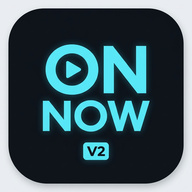
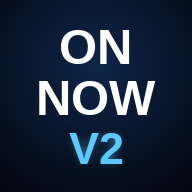
auto-commit for ecdddb0d-7a6c-4865-b3bb-73949e7a1cd9

diff --git a/launcher-backend/remote_page.html b/launcher-backend/remote_page.html
@@ -49,9 +49,12 @@
   .nbtn span{pointer-events:none}
 
   /* ── top bar ── */
-  .topbar{display:flex;align-items:center;justify-content:space-between;position:relative}
-  .brand-logo{position:absolute;left:50%;top:50%;transform:translate(-50%,-50%);
-    width:36px;height:36px;border-radius:9px;box-shadow:0 4px 12px rgba(0,0,0,.45);pointer-events:none}
+  .topbar{display:flex;align-items:center;justify-content:space-between}
+  .brand-word{flex:1;display:flex;justify-content:center;align-items:baseline;gap:5px;
+    padding:0 8px;white-space:nowrap;pointer-events:none;
+    font-weight:800;font-size:15px;letter-spacing:-0.02em;color:#fff;
+    text-shadow:0 4px 22px rgba(93,200,255,.28)}
+  .brand-word b{font-weight:800;color:#5DC8FF;text-shadow:0 0 14px rgba(93,200,255,.55),0 0 34px rgba(93,200,255,.25)}
   .conn-pill{display:flex;align-items:center;gap:8px;padding:8px 14px;border-radius:999px;
     background:linear-gradient(145deg,var(--card-hi),var(--card-lo));border:1px solid var(--edge);
     box-shadow:var(--shadow-out);font-size:12.5px;font-weight:600;letter-spacing:.02em;color:var(--txt-dim)}
@@ -148,9 +151,12 @@
   .pair{position:fixed;inset:0;z-index:80;display:flex;flex-direction:column;align-items:center;justify-content:center;
     gap:22px;padding:32px;background:radial-gradient(120% 90% at 50% 0%, #121a26 0%, var(--bg) 55%, #070a10 100%)}
   .pair.hidden{display:none}
-  .pair-logo{display:flex;flex-direction:column;align-items:center;gap:14px;
-    font-size:12px;font-weight:800;letter-spacing:.34em;color:var(--accent)}
-  .pair-logo img{width:72px;height:72px;border-radius:18px;box-shadow:0 10px 30px rgba(0,0,0,.5)}
+  .pair-word{display:flex;align-items:baseline;gap:12px;
+    font-weight:800;font-size:clamp(40px,12vw,56px);letter-spacing:-0.04em;line-height:1;color:#fff;
+    text-shadow:0 8px 60px rgba(93,200,255,.28)}
+  .pair-word b{font-weight:800;color:#5DC8FF;text-shadow:0 0 24px rgba(93,200,255,.55),0 0 60px rgba(93,200,255,.25)}
+  .pair-eyebrow{font-size:11px;letter-spacing:.36em;text-transform:uppercase;color:rgba(255,255,255,.55);
+    font-weight:600;margin-top:-6px}
   .pair h1{font-size:24px;font-weight:800;text-align:center;line-height:1.25}
   .pair p{font-size:13.5px;color:var(--txt-dim);text-align:center;max-width:280px;line-height:1.5}
   .code-boxes{display:flex;gap:9px}
@@ -168,6 +174,16 @@
   @keyframes spin{to{transform:rotate(360deg)}}
 
   /* toast */
+  .a2hs{position:fixed;left:14px;right:14px;bottom:calc(env(safe-area-inset-bottom,0px) + 14px);z-index:70;
+    display:flex;align-items:center;gap:11px;padding:12px 14px;border-radius:16px;
+    background:#141b27;border:1px solid var(--edge);box-shadow:0 12px 34px rgba(0,0,0,.55);
+    transform:translateY(160%);transition:transform .3s ease}
+  .a2hs.show{transform:translateY(0)}
+  .a2hs img{height:26px;width:26px;border-radius:6px;flex-shrink:0}
+  .a2hs p{flex:1;font-size:12px;color:var(--txt-dim);line-height:1.45}
+  .a2hs-install{border:none;border-radius:999px;padding:9px 16px;font-size:12.5px;font-weight:700;
+    color:var(--bg);background:linear-gradient(145deg,#4ad4f2,#26aac9);cursor:pointer;flex-shrink:0}
+  .a2hs-x{background:none;border:none;color:var(--txt-faint);font-size:17px;line-height:1;cursor:pointer;padding:6px;flex-shrink:0}
   .toast{position:fixed;bottom:calc(env(safe-area-inset-bottom,0px) + 84px);left:50%;transform:translate(-50%,16px);z-index:90;
     background:#1a2331;border:1px solid var(--edge);color:var(--txt);font-size:13px;font-weight:600;
     padding:11px 18px;border-radius:999px;box-shadow:0 10px 30px rgba(0,0,0,.5);opacity:0;pointer-events:none;
@@ -179,7 +195,8 @@
 
 <!-- ── PAIRING ── -->
 <div class="pair" id="pairScreen" data-testid="pair-screen">
-  <div class="pair-logo"><img src="remote-icon-192.png" alt="ON NOW V2"><span>ON NOW TV · V2</span></div>
+  <div class="pair-word" data-testid="pair-logo">ON&nbsp;NOW <b>V2</b></div>
+  <div class="pair-eyebrow">Phone&nbsp;Remote</div>
   <h1 id="pairTitle">Enter the code<br>on your TV</h1>
   <p id="pairSub">Open the Remote on your TV box and type the 6-digit code shown on screen.</p>
   <div class="code-boxes" id="codeBoxes" data-testid="code-boxes"></div>
@@ -198,7 +215,7 @@
       <span id="connText">Connecting…</span>
       <span class="conn-mode" id="connMode"></span>
     </div>
-    <img class="brand-logo" src="remote-icon-192.png" alt="ON NOW V2" data-testid="brand-logo">
+    <div class="brand-word" data-testid="brand-logo">ON&nbsp;NOW <b>V2</b></div>
     <button class="nbtn pwr-btn" data-key="POWER" data-testid="power-button" aria-label="Power">
       <svg viewBox="0 0 24 24"><path d="M18.36 6.64a9 9 0 1 1-12.73 0"/><line x1="12" y1="2" x2="12" y2="12"/></svg>
     </button>
@@ -316,6 +333,13 @@
   <div class="kb-hint">Text is typed live on the TV. ⏎ sends Enter. Backspace deletes on the TV too.</div>
 </div>
 
+<div class="a2hs" id="a2hsBar" data-testid="a2hs-banner">
+  <img src="remote-icon-192.png" alt="">
+  <p id="a2hsText"></p>
+  <button class="a2hs-install" id="a2hsAction" style="display:none" data-testid="a2hs-install-button"></button>
+  <button class="a2hs-x" id="a2hsClose" aria-label="Dismiss" data-testid="a2hs-close-button">✕</button>
+</div>
+
 <div class="toast" id="toast" data-testid="toast"></div>
 
 <script>
@@ -364,6 +388,45 @@
       } catch(e){}
     }
     document.addEventListener("pointerdown", goFs, true);
+  })();
+
+  // "Add to Home Screen" nudge (once).  Android Chrome fires
+  // beforeinstallprompt → real Install button.  iPhone has no install
+  // API at all — the ONLY route to a full-screen remote on iOS is
+  // Share → Add to Home Screen, so we spell that out.
+  (function installHint(){
+    var standalone = false;
+    try {
+      standalone = (window.matchMedia &&
+        (matchMedia("(display-mode: standalone)").matches ||
+         matchMedia("(display-mode: fullscreen)").matches)) ||
+        window.navigator.standalone === true;
+    } catch(e){}
+    if (standalone) return;
+    try { if (localStorage.getItem("onnow_a2hs_hint")) return; } catch(e){}
+    var isIos = /iPhone|iPad|iPod/.test(navigator.userAgent);
+    var deferred = null;
+    var bar = $("a2hsBar"), txt = $("a2hsText"), act = $("a2hsAction");
+    function dismiss(){
+      bar.classList.remove("show");
+      try { localStorage.setItem("onnow_a2hs_hint", "1"); } catch(e){}
+    }
+    $("a2hsClose").addEventListener("click", dismiss);
+    act.addEventListener("click", function(){
+      if (deferred){ try { deferred.prompt(); } catch(e){} deferred = null; }
+      dismiss();
+    });
+    function show(message, actionLabel){
+      txt.textContent = message;
+      act.style.display = actionLabel ? "" : "none";
+      if (actionLabel) act.textContent = actionLabel;
+      setTimeout(function(){ bar.classList.add("show"); }, 2600);
+    }
+    window.addEventListener("beforeinstallprompt", function(e){
+      e.preventDefault(); deferred = e;
+      show("Add this remote to your home screen — it opens full screen like an app.", "Install");
+    });
+    if (isIos) show("For full screen on iPhone: tap Share, then \u201cAdd to Home Screen\u201d.", null);
   })();
 
   function saved(){ try { return JSON.parse(localStorage.getItem(LS_KEY) || "null"); } catch(e){ return null; } }

diff --git a/memory/PRD.md b/memory/PRD.md
@@ -8912,3 +8912,25 @@ build; QR + keyboard detection require the new launcher build.
   TV · V2" on the pair/connecting screens.
 - LocalRemoteServer: redirects /remote-icon-*.png + /remote.webmanifest
   to the cloud copies for LAN-mode phones (launcher recompiled OK).
+
+---
+
+## 2026-06 — Branding corrected to boot-splash wordmark + iOS answer
+- User clarified the logo = Vesper BootSplash typographic wordmark
+  (bold white "ON NOW" + glowing cyan #5DC8FF "V2"), NOT the generated
+  square icon. Remote now renders it as pure text: .brand-word in the
+  top bar (flex 3-col layout, no overlap) and big .pair-word +
+  "PHONE REMOTE" eyebrow on the pair/connecting screens.
+- Home-screen icons regenerated with PIL in the same typographic style
+  (radial navy bg, stacked ON/NOW white + glowing V2 cyan,
+  LiberationSans-Bold). remote_logo.png route/file removed.
+- iPhone: no install-prompt API on iOS. Solution shipped: A2HS hint
+  banner (one-time, dismissible) — iOS Safari shows "tap Share → Add
+  to Home Screen"; Android Chrome hooks beforeinstallprompt with a
+  real Install button. apple-mobile-web-app-capable meta means iOS
+  home-screen launches are standalone full-screen. In-tab
+  requestFullscreen doesn't exist on iPhone Safari — home-screen
+  route is the only true fullscreen there.
+- Bug fixed during this: a2hs banner HTML div had gone missing →
+  null addEventListener killed the whole page script (no code boxes,
+  no auto-connect). Restored + verified end-to-end.
